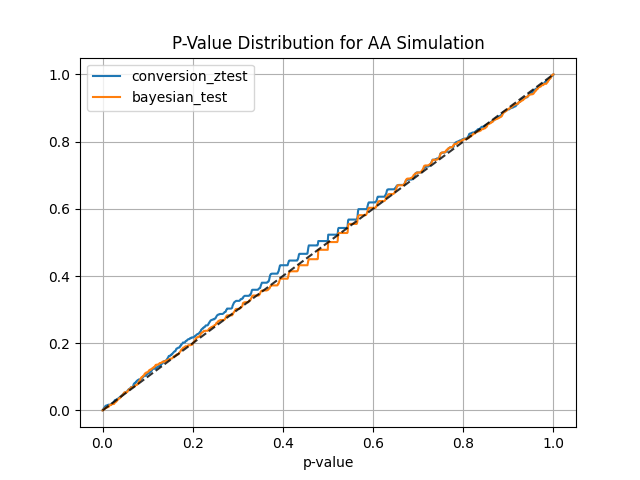
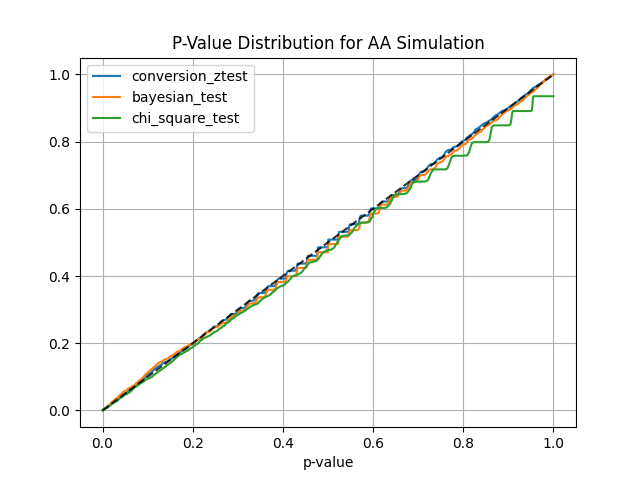
Add chi-square test

Changed region(s): [[0.1562, 0.1562, 0.875, 0.875], [0.125, 0.2188, 0.375, 0.2812]]

diff --git a/abtoolkit/discrete/simulation.py b/abtoolkit/discrete/simulation.py
@@ -7,6 +7,7 @@ from typing import List, Literal
 import numpy as np
 
 from abtoolkit.discrete.stattests import conversion_ztest
+from abtoolkit.discrete.stattests import chi_square_test
 from abtoolkit.discrete.stattests import bayesian_test
 from abtoolkit.utils import BaseSimulationClass
 
@@ -61,6 +62,7 @@ class StatTestsSimulation(BaseSimulationClass):
         self.stattests_func_map = {
             "conversion_ztest": self.simulate_conversion_ztest,
             "bayesian_test": self.simulate_bayesian_test,
+            "chi_square_test": self.simulate_chi_square_test,
         }
         self.bayesian_prior_positives = bayesian_prior_positives
         self.bayesian_prior_negatives = bayesian_prior_negatives
@@ -76,6 +78,18 @@ class StatTestsSimulation(BaseSimulationClass):
         test_count = np.random.binomial(n=self.sample_size, p=self.p + mde)
 
         return conversion_ztest(control_count, self.sample_size, test_count, self.sample_size, self.alternative)
+
+    def simulate_chi_square_test(self, mde: float) -> float:
+        """
+        Simulate chi-square test
+        :param mde: minimal detectable effect, to sum with test variable
+        :return: p_value
+        """
+
+        control_count = np.random.binomial(n=self.sample_size, p=self.p)
+        test_count = np.random.binomial(n=self.sample_size, p=self.p + mde)
+
+        return chi_square_test(control_count, self.sample_size, test_count, self.sample_size)
 
     def simulate_bayesian_test(self, mde: float) -> float:
         """

diff --git a/examples/discrete_var_analysis.py b/examples/discrete_var_analysis.py
@@ -7,12 +7,12 @@ from abtoolkit.utils import generate_data
 
 if __name__ == '__main__':
     # Fix global params
-    mde = 0.05
+    mde = -0.05
     alpha_level = 0.05
     power = 0.8
-    examples_num = 2000  # Number of examples in test and control group
-    experiments_num = 1000  # Number of experiments to run for each stattest
-    alternative = 'less'
+    examples_num = 500  # Number of examples in test and control group
+    experiments_num = 3000  # Number of experiments to run for each stattest
+    alternative = 'greater'
 
     # Generate variable
     variable = generate_data(examples_num, distribution_type="disc")
@@ -26,7 +26,7 @@ if __name__ == '__main__':
     sim = StatTestsSimulation(
         count=variable.sum(),
         objects_num=variable.count(),
-        stattests_list=["conversion_ztest", "bayesian_test"],
+        stattests_list=["conversion_ztest", "bayesian_test", "chi_square_test"],
         alternative=alternative,
         experiments_num=experiments_num,  # Run each stattest 10 times
         sample_size=sample_size,  # Take 50 samples from variables

diff --git a/abtoolkit/discrete/stattests.py b/abtoolkit/discrete/stattests.py
@@ -79,3 +79,31 @@ def bayesian_test(
         return probability
 
     return 1 - probability
+
+
+def chi_square_test(
+    control_count: int,
+    control_objects_num: int,
+    test_count: int,
+    test_objects_num: int,
+) -> float:
+    """
+    Chi-square test
+    :param control_count: number of positive samples in control group
+    :param control_objects_num: number of all samples in control group
+    :param test_count: number of positive samples in test group
+    :param test_objects_num: number of all samples in test group
+    :return: p-value
+    """
+
+    control_negative_count = control_objects_num - control_count
+    test_negative_count = test_objects_num - test_count
+
+    if control_negative_count < 5 or control_count < 5 or test_negative_count < 5 or test_count < 5:
+        raise ValueError("Too few samples for chi-square test (>= 5 in each case)")
+
+    contingency_table = [[control_count, control_negative_count], [test_count, test_negative_count]]
+
+    _, pvalue, _, _ = stats.chi2_contingency(contingency_table, correction=True)
+
+    return pvalue

diff --git a/abtoolkit/utils.py b/abtoolkit/utils.py
@@ -62,7 +62,8 @@ def generate_data(
     index: Union[pd.Index, pd.MultiIndex] = None,
 ) -> pd.Series:
     """
-    Generates data for continuous variables test. Regression technique require special multi-index [entity, dt].
+    Generates data for continuous and discrete variables test.
+    Regression technique require special multi-index [entity, dt].
     :param size: sample size for generation
     :param distribution_type: type of variable for generation
     * cont - continuous variable from normal distribution with mean=0 and std=3
